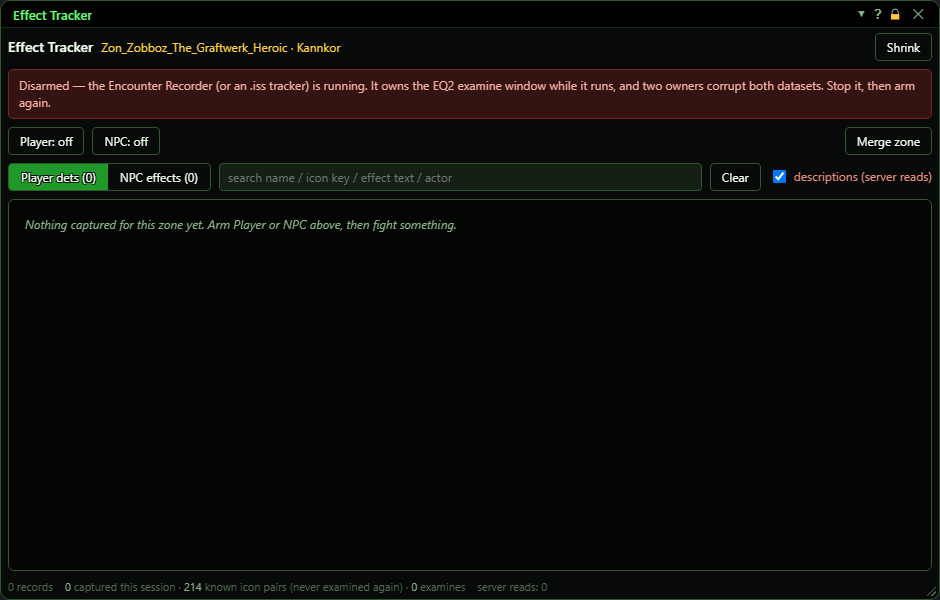
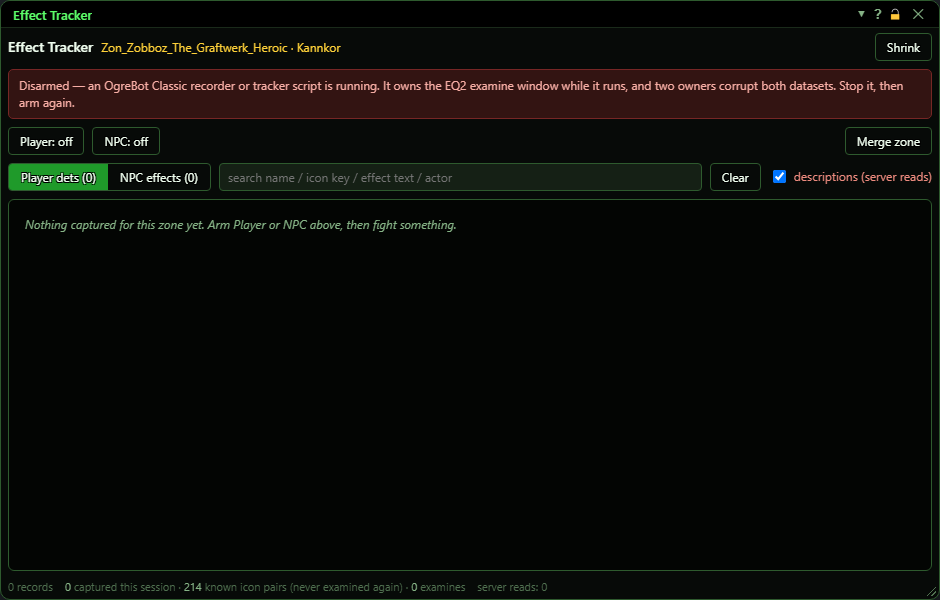
New OgreBot docs: publish the "OgreBot" section (EQ2/bot/)
Generated output from the private docs source (Scripts b9e6be795+uncommitted); linted for gated names, mkdocs build --strict and link check green.

Changed region(s): [[0.0926, 0.12, 0.9872, 0.15], [0.0309, 0.15, 0.0926, 0.18]]

diff --git a/docs/EQ2/bot/windows/effecttracker.md b/docs/EQ2/bot/windows/effecttracker.md
@@ -20,7 +20,7 @@
 >
 > - Both start off in every new session. The window opens shrunk; click **Expand**.
 > - Each effect is examined once, ever, so a zone you ran before may show nothing new.
-> - It switches itself off while the Encounter Recorder runs.
+> - It switches itself off while one of the old OgreBot recorder scripts runs.
 
 **Open it:** Type `ogre effecttracker` (or `ogre oet`). `ogre effecttracker on` turns on the player capture and `ogre effecttracker npc on` the NPC capture; both also open the window. `ogre effecttracker off` turns both off. `ogre end effecttracker` (or the window's X) turns both off and closes the window.
 
@@ -82,7 +82,7 @@ Record count (and 'showing N of M' when there are more than 250 matches; the fil
 ## What the window shows
 
 - Header line: zone file name, your character, 'N/8 examining' while effects wait to be read, and 'last:' the last effect captured.
-- Red 'Disarmed' bar: the Encounter Recorder or one of the old OgreBot effect tracker scripts is running. They use the same examine window, so the tracker switches itself off and refuses to turn on until they stop.
+- Red 'Disarmed' bar: one of the old OgreBot recorder or effect tracker scripts is running. They use the same examine window, so the tracker switches itself off and refuses to turn on until they stop.
 - Row name in red with '[examine timed out]' (or another reason): the capture failed. An 'Unknown_...' name means the effect could not be named. These are tried again later in the session, up to a limit.
 - Yellow brackets such as [Stun Root]: crowd control found in the effect text (Stifle, Stun, Fear, Mez, Root).
 - Open row, first line: main and backdrop icon numbers, the key, maxDuration (-1 means it lasts until removed), increments (counters), the actor type and the capture result.
@@ -95,7 +95,7 @@ Record count (and 'showing N of M' when there are more than 250 matches; the fil
 - Player and NPC are not saved: both start off in every new session. Turning either on opens this window (shrunk) so you can always see it is running.
 - Closing the window turns Player and NPC off (what was captured is saved), the same as `ogre end effecttracker`.
 - An effect is examined only once, ever, across all your characters. A zone you already ran may show nothing new; that is normal.
-- Starting the Encounter Recorder switches Effect Tracker off. Turn it back on after the recorder stops.
+- Starting one of the old OgreBot recorder scripts switches Effect Tracker off. Turn it back on after the script stops.
 - While the tracker is working, you will see effect examine windows flash open and close. That is how it reads them.
 - The list only shows the zone you are in, and only after capture has been turned on (or Merge zone pressed) this session.
 
@@ -109,7 +109,7 @@ The window opens shrunk. Click **Expand**:
 
 ![NPC effects](../assets/effecttracker/npc.png)
 
-### Blocked by the Encounter Recorder
+### Blocked by an old recorder script
 
 ![Blocked](../assets/effecttracker/blocked.png)
 
